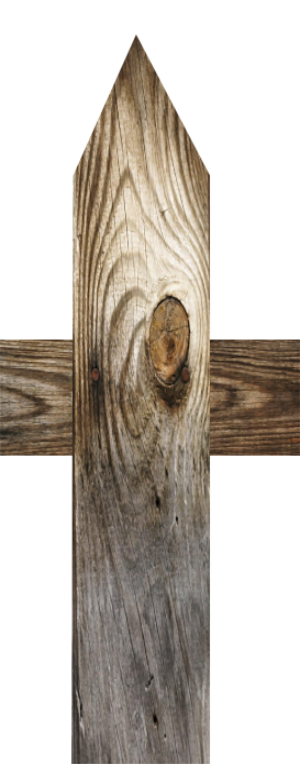
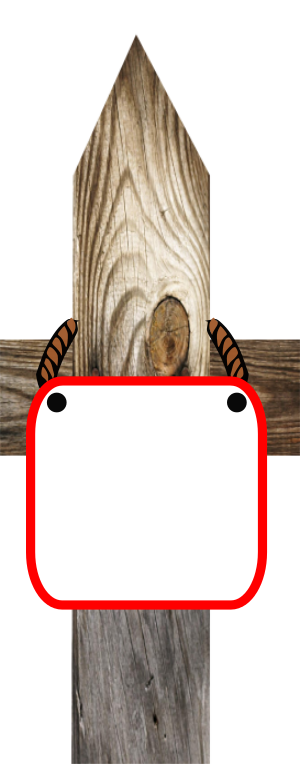
new form updates

Changed region(s): [[0.06, 0.3914, 0.9, 0.8128]]

diff --git a/public/stylesheets/style.css b/public/stylesheets/style.css
@@ -40,23 +40,23 @@ a {
   width: 300px;
   height: 764px;
   display: inline-block;
-  background-image: url(images/fencepost_sign_wood.png);
+  background-image: url(images/fencepost_empty.png);
   float:left;
 }
 
 .emptyform{
-  color: white;
-  width: 140px;
+  color: black;
+  width: 160px;
 }
 
 .fencegoal{
-  margin-top: 420px;
+  margin-top: 370px;
   width: 220px;
   margin-left: 40px;
 }
 
 .newgoal{
-  margin-top: 300px;
+  margin-top: 400px;
   margin-left: 80px;
   text-align: left;
 }
